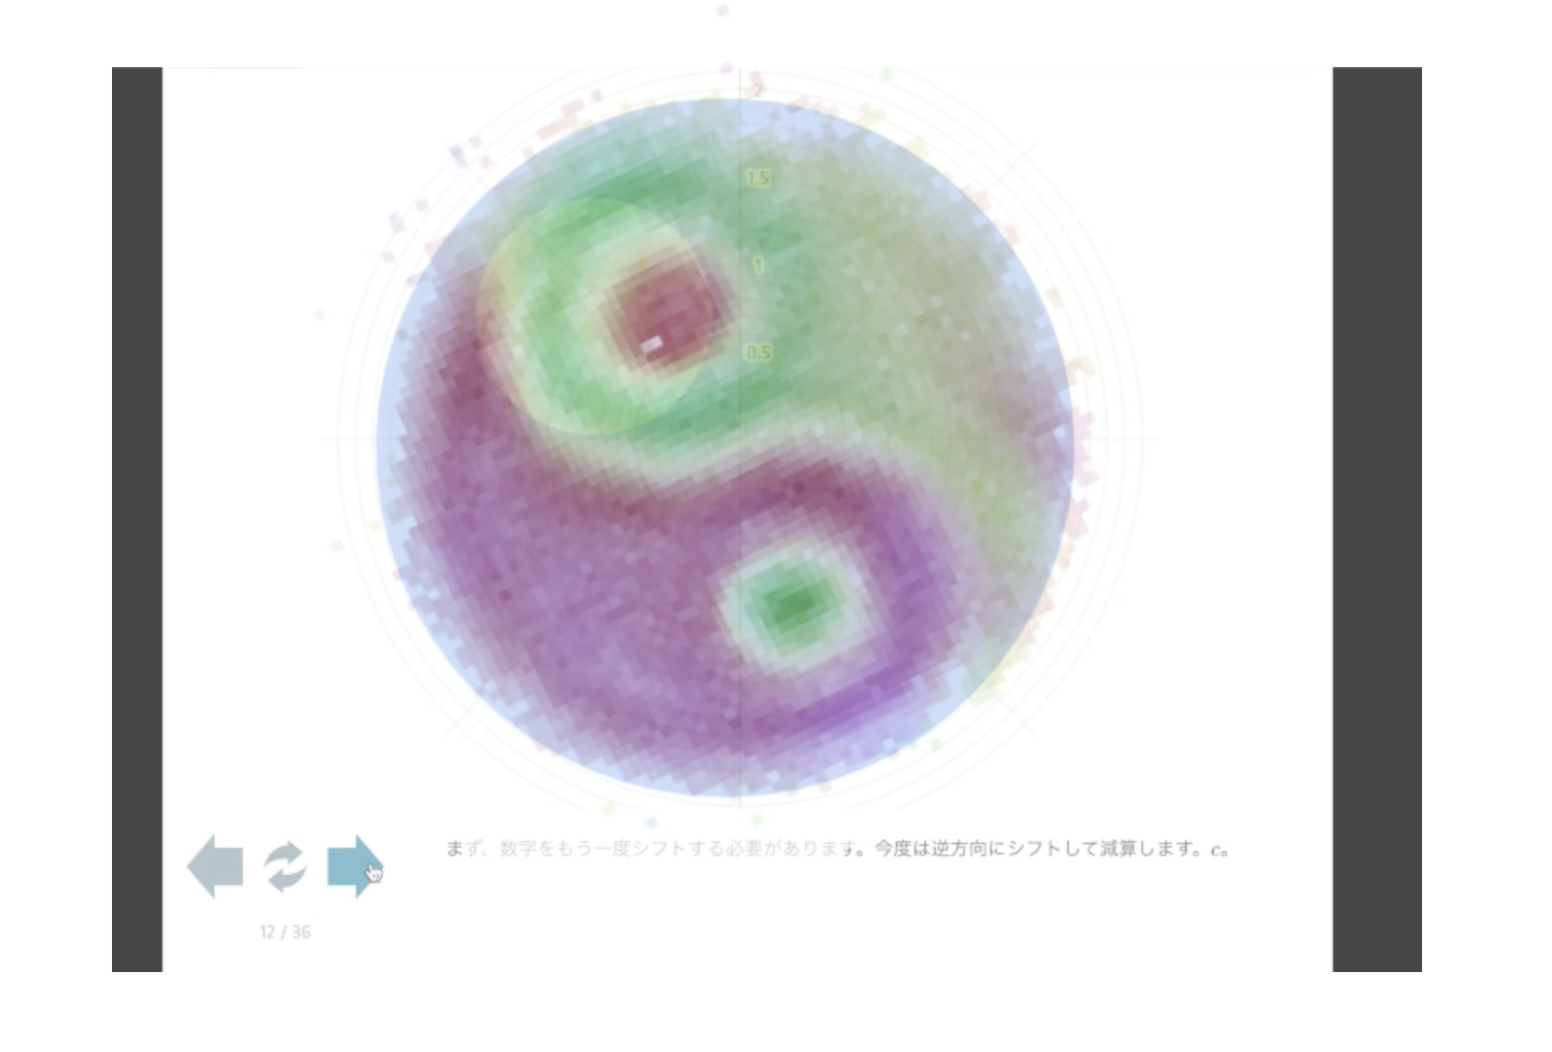
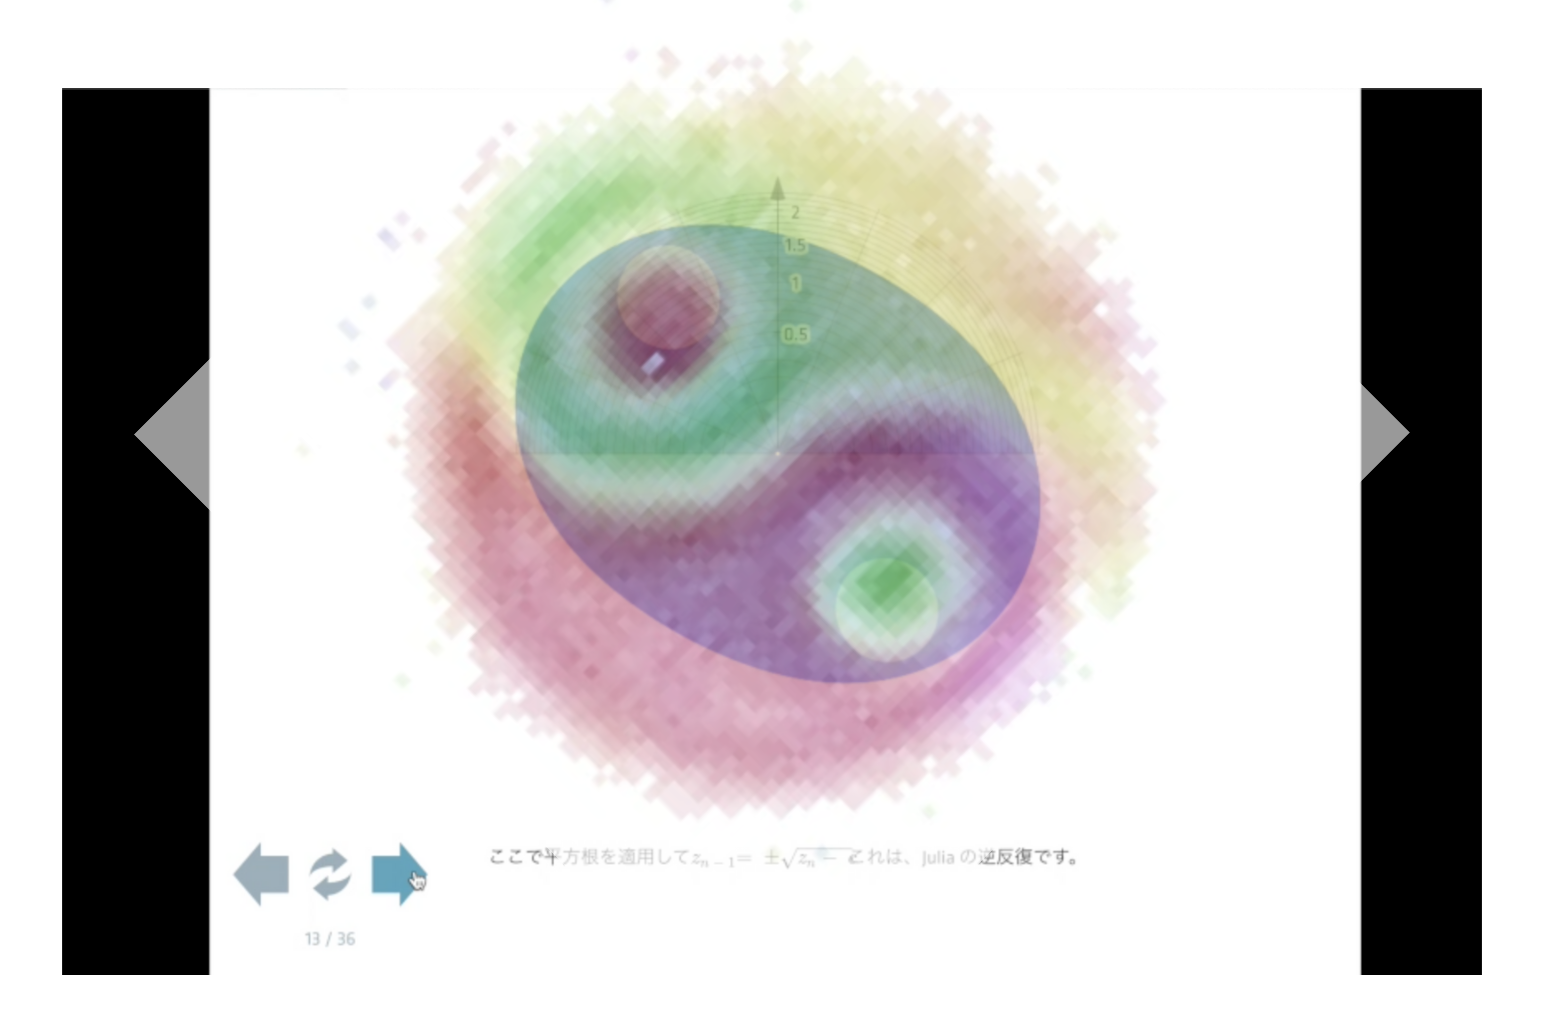
v2

diff --git a/_posts/2025/2025-05/2025-05-31-julia.md b/_posts/2025/2025-05/2025-05-31-julia.md
@@ -1,6 +1,6 @@
 ---
 permalink: /20250531julia/
-title: "１パイ：Julia集合を逆再生"
+title: "混沌→１パイ：陰陽なJulia集合を逆再生"
 date: 2025-05-31T01:30:31+09:00
 categories:
   - Log
@@ -11,11 +11,24 @@ tags:
   - ゼロイチ
 ---
 
-「粒がリズミカルに重なり合い、”イチ(π)”になる」のイメージ
 
-[![image]({{ '/assets/images/humor/juliaOnmyo.png' | relative_url }})]({{ '/assets/images/humor/juliaOnmyo.png' | relative_url }})
+創造は、  
+境界が曖昧な時、交わる時、重なり合い、ランダムに、リズミカルに、分かれ、融合、、  
+「粒がリズミカルに重なり合い、”イチ”になる」イメージ。
+- 関連：[【対話：まとめ：場と時代の違いを考えた】]({{ '/dialogueBaJidai/' | relative_url }})
 
-## 動画：Julia集合から円を作る過程を逆再生(逆写像反復法の可視化)
+Julia集合から円に集まる過程は比喩として良いのかもしれない。  
+なんならどこかがドンピシャかもしれない。  
+
+![Julia set](https://upload.wikimedia.org/wikipedia/commons/d/d5/JSr07885.gif)
+- 動画GIF：Julia集合（模様はcの値で変わる）
+
+---
+
+## Julia集合から円を作る過程を逆再生(逆写像反復法の可視化)
+
+- 動画はジュリア集合にあった点が単純操作を繰り返して円に集まっていく様子の逆再生。
+  - 動画最後の複雑な模様は、そのまま100回くらい繰り返した場合。
 
 <video 
   src="{{ '/assets/movie/julia.mp4' | relative_url }}"
@@ -27,34 +40,48 @@ tags:
 </video>
 
 - [参考:【How to Fold a Julia Fractal — Acko.net】](https://acko.net/blog/how-to-fold-a-julia-fractal/)
+  
+---
 
-### 円の作り方：単純作業を繰り返して作る
+私には、円の分割と反転コピー（平方根の適用）の箇所が☯陰陽マークのように見える。
+[![image]({{ '/assets/images/humor/juliaOnmyo.png' | relative_url }})]({{ '/assets/images/humor/juliaOnmyo.png' | relative_url }})
 
-- 元気玉みたいにいろんなとこから集める。
-  - どこから？：ジュリア集合(タツノオトシゴのような形など)のとこから
-  - どんなふうに？：２乗と移動を繰り返して
+---
 
+### 円を塗りつぶしてる"点"たちはどこからやってきたのか？
+
+- 円の作り方：
+  - 単純作業を繰り返して点を集める。
+    - どこから？：
+      - ジュリア集合のとこから(奇怪で複雑な模様のやつ)
+        - それ以外は除外される
+    - どんなふうに？：２乗と移動を繰り返す。
 ```
 # 反復（n = 0, 1, 2, …）
 for n in 0, 1, 2, …:
     z[n+1] = (z[n])^2 + c
 ```
-
-### 塗りつぶしてる"点"たちはどこからやってきたのか？:作った過程を逆戻り
-
-作り方の逆。cの分だけ戻す。ルートする。繰り返す。
+- 点が最初にあった場所の探し方：
+  - 円を作った過程を逆戻り。
+    - cの分だけ引き戻し、ルートする（平方根を求める）、を繰り返す。
 
 ---
 
-### パイの比喩
+### パイと粉砂糖の比喩
 
-パイの上に粉砂糖をばらまき、回転（＝二乗）と傾き（＝平行移動）を繰り返します。
+円をパイにたとえると、  
+パイの上に粉砂糖をばらまき、回転（＝二乗）と傾き（＝平行移動）を繰り返す。
 
 - 二乗操作（z → z^2）：  
-  パイを高速で回転させると、粉砂糖の粒一つ一つは、パイの中心から見た向き（角度）が２倍になり、中心からの距離は二乗されるように飛び跳ねます。
+  パイを高速で回転させると、粉砂糖の粒一つ一つは、パイの中心から見た向き（角度）が２倍になり、中心からの距離は二乗されるように飛び跳ねる。
 - 定数 c（平行移動）：  
-  パイは常に一定方向にわずかに傾き続けるため、回転後の粉砂糖は毎回その傾き分だけまとめて平行移動します。
+  パイは常に一定方向にわずかに傾き続けるため、回転後の粉砂糖は毎回その傾き分だけまとめて平行移動。
 - 発散判定：  
-  回転と傾きの結果、パイの縁を越えて落ちた粉砂糖はこぼれて二度とパイの上には戻りません。
+  回転と傾きの結果、パイの縁を越えて落ちた粉砂糖はこぼれて二度とパイの上には戻らない。
 
-どの粒が最後まで残るかを見ます。残った粒のもとあった場所が Julia 集合に対応します。
+どの粒が最後まで残るかを見て、残った粒のもとあった場所が Julia 集合に対応。
+
+## 関連
+
+- Julia集合のズーム映像
+<iframe width="1117" height="628" src="https://www.youtube.com/embed/wjWa7iUuq1A?mute=1" title="Left of Centre - A Julia Set Fractal Zoom" frameborder="0" allow="accelerometer; autoplay; clipboard-write; encrypted-media; gyroscope; picture-in-picture; web-share" referrerpolicy="strict-origin-when-cross-origin" allowfullscreen></iframe>  

diff --git a/_pages/pd/dialogue/dialogue-ba-jidai.md b/_pages/pd/dialogue/dialogue-ba-jidai.md
@@ -150,6 +150,17 @@ sidebar:
   - 普遍性が神話にないものかと。河合隼雄っぽく
     - [それをChatGPT o3に聞いてみた。回答はこちら](https://chatgpt.com/share/68369849-69ec-800b-967a-cc9605541771)
 
+- 脱線：かぐや姫はジュリアでも良いのかもしれない
+  - [【１パイ：Julia集合を逆再生】]({{ '/20250531julia/' | relative_url }})
+  <video 
+    src="{{ '/assets/movie/julia.mp4' | relative_url }}"
+    autoplay  
+    muted  
+    loop  
+    playsinline  
+    width="640">
+  </video>
+
 ---
 
 ## 今後の発散の方向
